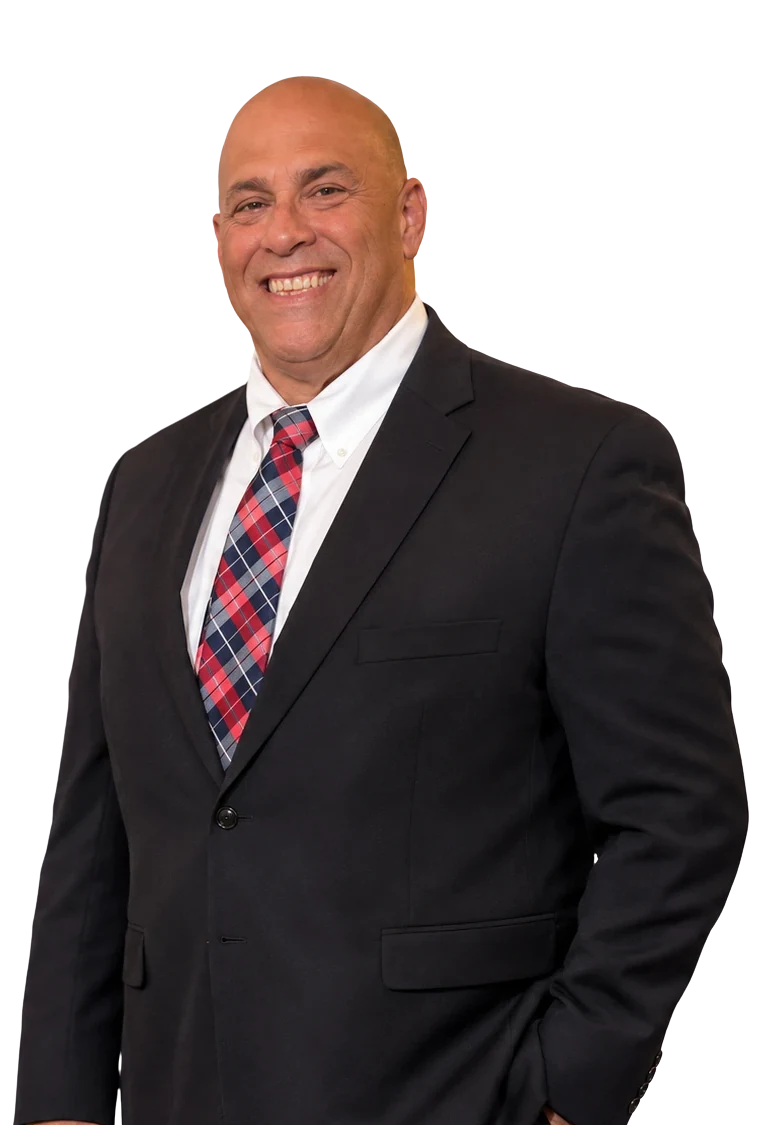
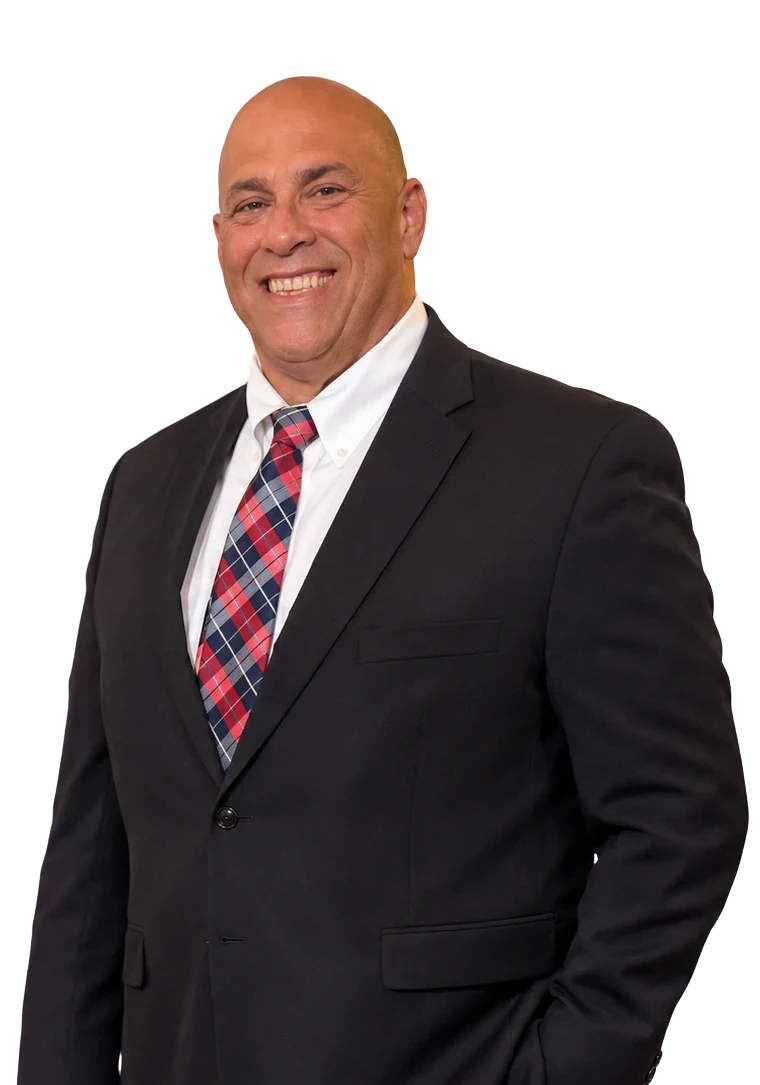
Crop above John's knuckles, and dial the break headline back
The 1125 cut still caught the top of his hand. The silhouette does not widen
until y=1168, but skin first appears at y=1118, so the outline measurement
missed it. Cutting at 1085 leaves clear jacket at the title block.

The break headline was overscaled at up to 7rem; it shouted rather than
landed. Back to a 4.6rem ceiling, which sets it in two lines.

diff --git a/index.html b/index.html
@@ -250,7 +250,7 @@ section.in-view .secno{opacity:1;transform:none}
 .break .wrap{position:relative;z-index:1;display:grid;grid-template-columns:1fr;gap:44px;max-width:var(--max)}
 .break .eyebrow{margin-bottom:30px}
 .break .bk-rule{width:120px;height:2px;background:var(--gold);margin-top:clamp(34px,4vw,54px)}
-.break h2{font-size:clamp(3rem,8.4vw,7rem);line-height:.98;letter-spacing:-.015em;max-width:15ch}
+.break h2{font-size:clamp(2.4rem,5.4vw,4.6rem);line-height:1.02;letter-spacing:-.012em;max-width:16ch}
 .break h2 em{font-style:normal;color:var(--gold-soft)}
 @media(max-width:900px){.break h2{max-width:none}}
 /* Project strip */
@@ -669,7 +669,7 @@ footer{padding-bottom:110px}
 </div>
 <figure class="hero-fig rv a5" style="margin:0">
 <span class="panel"></span><span class="hl"></span><span class="rim"></span><span class="coord">Fig. 01<b>Principal, on site</b></span><span class="arc"></span><span class="arc two"></span><span class="arc three"></span><span class="arc fill"></span>
-<img src="headshot.webp" alt="John Guido, founder of JJG Development Group" width="760" height="1125">
+<img src="headshot.webp" alt="John Guido, founder of JJG Development Group" width="760" height="1085">
 <figcaption class="tag"><span>Principal</span>John Guido<br>42 years in the field</figcaption>
 </figure>
 </div>
